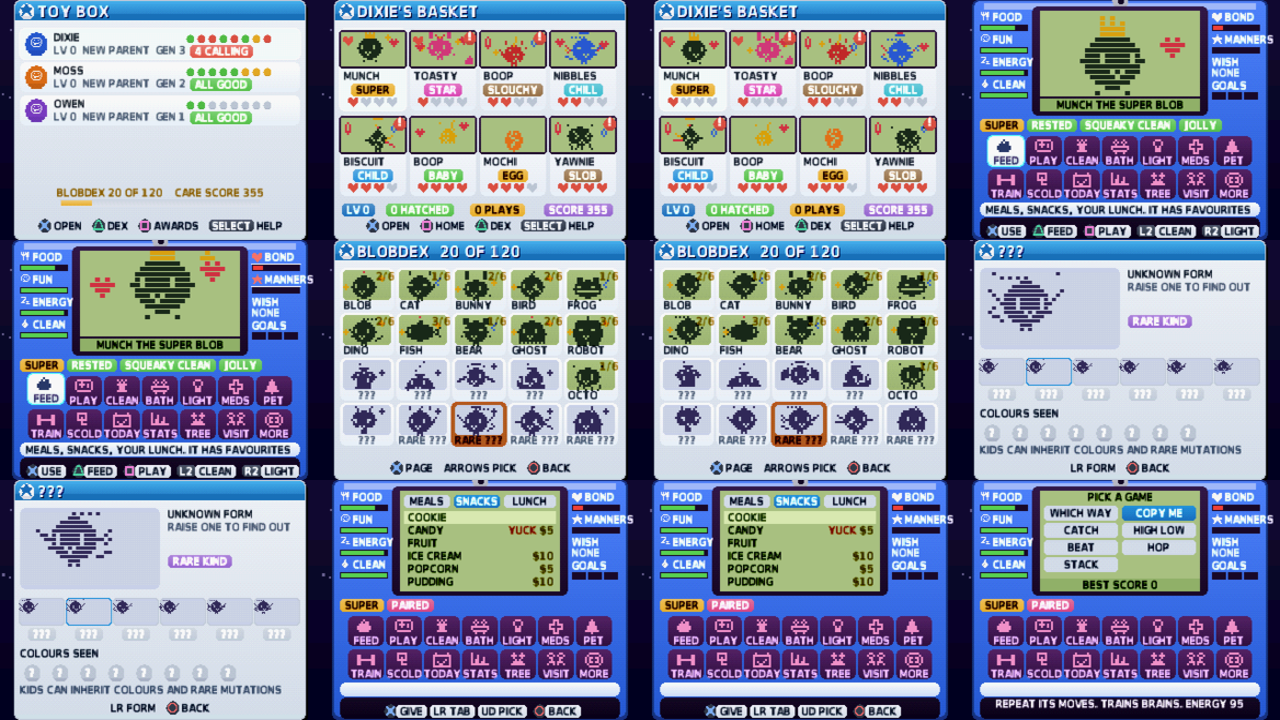
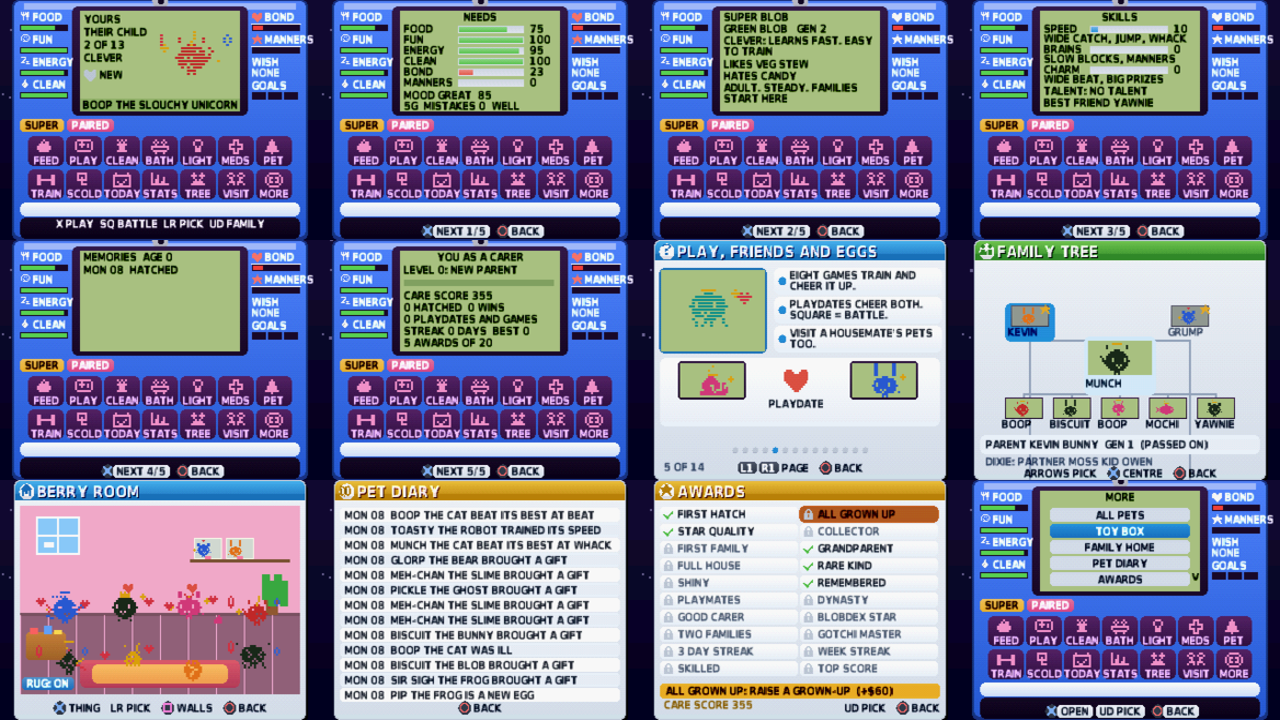
Boreagotchi: 8th mini-game WHACK (trains SPEED), games list now 8, diary names the game and skill, BRAINS manners bonus, test hooks AUTO_WHACK and shots
Claude-Session: https://claude.ai/code/session_01HmRg38Ho1eHKsYp7LCd8R6

diff --git a/src/gotchi_ui.c b/src/gotchi_ui.c
@@ -1,6 +1,6 @@
 #pragma GCC optimize("Os")
 // gotchi_ui.c - the BOREAGOTCHI! expansion pack's screens: the TOY BOX, the EGG BASKET (up to eight creatures), the HANDHELD (a colour LCD with
-// animated moods, a labelled icon menu with hints, stat bars), four little games, the BLOBDEX (a grid with silhouettes and a page for each kind),
+// animated moods, a labelled icon menu with hints, stat bars), eight little games, the BLOBDEX (a grid with silhouettes and a page for each kind),
 // the FAMILY TREE and FAMILY HOME, the DIARY, the AWARDS and the HELP pages. It is the overlay GOTCHI.OVL: a file on the disc of its own (ovl.h).
 // The creatures are not drawn from pictures: each of the 20 kinds is built from shapes on the 32 x 16 LCD, at five sizes, six grown-up forms, eight
 // colours, with rare mutations, accessories and moods, so there are very many different ones (and a BLOBDEX to fill).
@@ -14,7 +14,7 @@
 #include "ovl.h"
 #include <psxgpu.h>
 
-enum { V_BOX, V_BASKET, V_HAND, V_DEX, V_DEXD, V_FEED, V_PLAYPICK, V_LOOK, V_COPY, V_CATCH, V_HILO, V_FRIEND, V_STATS, V_GUIDE, V_TREE, V_HOME, V_DIARY, V_AWARD, V_MORE, V_DRESS, V_TITLE, V_INTRO, V_HATCH, V_DAY, V_GOALS, V_TRAIN, V_BEAT, V_HOP, V_STACK };
+enum { V_BOX, V_BASKET, V_HAND, V_DEX, V_DEXD, V_FEED, V_PLAYPICK, V_LOOK, V_COPY, V_CATCH, V_HILO, V_FRIEND, V_STATS, V_GUIDE, V_TREE, V_HOME, V_DIARY, V_AWARD, V_MORE, V_DRESS, V_TITLE, V_INTRO, V_HATCH, V_DAY, V_GOALS, V_TRAIN, V_BEAT, V_HOP, V_STACK, V_WHACK };
 enum { MD_NORM, MD_HAPPY, MD_DANCE, MD_SLEEP, MD_SICK, MD_HUNGRY, MD_BORED, MD_ANGRY, MD_TIRED, MD_DIRTY };
 static int view, from_box, ti, bi, isel, anim, msgT, dexsel, dexf, bxsel, sub, mgT, mgN, mgWon, mgRound, mgDir, danceT, treeSel, treeId, homeSel, listTop;
 static const char *msg; static int dexback, guidepage, guideback, backv;
@@ -213,7 +213,7 @@ static const u8 iconMap[NSLOT] = { 0, 1, 4, 12, 2, 3, 6, 13, 5, 14, 7, 8, 9, 11 
 static const u8 urgIcon[10] = { 99, 3, 4, 6, 5, 0, 2, 1, 12, 2 };   // the icon that lights up for what a pet needs most (gx_urgent2)
 static const char *const urgTxt[10] = { "", "SICK! SELECT GIVES MEDS", "A MESS! L2 CLEANS IT UP", "A TANTRUM. PET IT TO CALM IT", "IT IS FIBBING. SCOLD IT", "HUNGRY! TRI FEEDS IT", "SLEEPY. R2 SWITCHES THE LIGHT OFF", "BORED. SQ PLAYS A GAME", "SMELLY! GIVE IT A BATH", "TIRED. R2: LIGHTS OUT FOR A NAP" };
 static const char *const iconNm[NICON] = { "FEED", "PLAY", "LIGHT", "MEDS", "CLEAN", "SCOLD", "PET", "STATS", "TREE", "VISIT", "DRESS", "MORE", "BATH", "TRAIN", "TODAY" };
-static const char *const iconHint[NICON] = { "MEALS, SNACKS, YOUR LUNCH. IT HAS FAVOURITES", "SEVEN GAMES. GOOD SCORES BRING PRIZES", "LIGHTS OUT HELPS IT SLEEP. A TIRED PET NAPS",
+static const char *const iconHint[NICON] = { "MEALS, SNACKS, YOUR LUNCH. IT HAS FAVOURITES", "EIGHT GAMES. GOOD SCORES BRING PRIZES", "LIGHTS OUT HELPS IT SLEEP. A TIRED PET NAPS",
     "CURES THE SICK. NOT FOR A HEALTHY PET", "FLUSH THE MESS BEFORE IT MAKES THEM ILL", "ONLY FOR FIBS AND TANTRUMS", "CUDDLE IT. CALMS TANTRUMS. CHEERS YOU UP", "NEEDS, MOOD, SKILLS, MEMORIES",
     "THE FAMILY TREE: PARENTS, KIDS, GRANDPARENTS", "PLAYDATES AND BATTLES, EVEN WITH HOUSEMATES", "HATS AND BOWS FOR YOUR PET", "HOME, DIARY, AWARDS, BLOBDEX AND HELP", "A BATH KEEPS IT CLEAN AND WELL", "PRACTISE A SKILL. COSTS ENERGY", "THREE GOALS A DAY. KEEP A STREAK" };
 static const char *const icon[NICON][7] = {
@@ -322,6 +322,10 @@ static int hY, hVy, hOx[3], hOt[3], hSp, hNext, hSpawn, hClear, hHits, hDone, hH
 // STACK: drop sliding blocks into a tower
 #define SN 9
 static int sL[SN + 1], sW[SN + 1], sCx, sCw, sDir, sLv, sPerf, sOver;
+// WHACK: bugs pop out of four holes (up, down, left, right): press that way fast. A quick whack scores 2, a slow one 1; the mess is not to be touched
+#define WN 14
+static int wMax, wN, wSt, wT, wW, wHole, wMess, wLast, wPts, wHit, wMiss, wRes, wRT, wMood, wMT; static u8 wH[WN];
+static const u8 wcx[4] = { 192, 192, 160, 224 }, wcy[4] = { 38, 88, 63, 63 };
 static int skill(int i) { return tt()->x[bi].sk[i]; }
 static void start_look(void) { view = V_LOOK; mgRound = 0; mgWon = 0; mgT = 0; mgN = 0; mgDir = 0; }
 static void start_copy(void) { view = V_COPY; mgRound = 0; mgWon = 0; mgN = 2; for (int i = 0; i < 6; i++) seq[i] = (u8)(rr() & 3); sidx = 0; mgT = -60; }
@@ -330,6 +334,11 @@ static void start_hilo(void) { view = V_HILO; mgRound = 0; mgWon = 0; hiNum = 1 
 static void start_beat(void) { view = V_BEAT; bTm = 0; bPerf = bGood = bMiss = bCombo = bJT = 0; int a = 100; for (int i = 0; i < BN; i++) { bAt[i] = a; bRes[i] = 0; a += 34 + (rr() % 3) * 11; } mgT = -60; }
 static void start_hop(void) { view = V_HOP; hY = hVy = 0; hSp = 36; hSpawn = 70; hClear = hHits = hDone = hHurt = hNext = 0; for (int i = 0; i < 3; i++) hOx[i] = -99; mgT = -60; }
 static void start_stack(void) { view = V_STACK; sL[0] = 104; sW[0] = 52; sLv = 1; sCw = 52; sCx = 84 * 16; sDir = 1; sPerf = sOver = 0; mgT = -50; }
+static void start_whack(void) { view = V_WHACK; wMax = wN = wSt = wRes = wRT = wMT = wPts = wHit = wMiss = wMess = wHole = 0; wT = 40; wW = 60; wLast = -1; memset(wH, 0, sizeof wH); mgT = -50; }
+static void whack_end(int res, int pts) {   // a pop is over: 1 quick, 2 slow, 3 too late, 4 hit the mess, 5 left the mess alone, 6 wrong hole
+    wH[wN++] = (u8)res; wPts += pts; wRes = res; wRT = 40; wSt = 0; wT = wN >= WN ? 50 : 18 + rr() % 22; wMT = 26; wMood = (res == 1 || res == 2 || res == 5) ? MD_HAPPY : MD_BORED;
+    if (res <= 2) wHit++; else if (res != 5) wMiss++;
+}
 static void say2(const char *m) {   // the result, and a goal if it finished one
     static char c[72]; const char *g = gx_pending(); if (g) { snprintf(c, sizeof c, "%s  %s", m, g); say(c); } else say(m);
 }
@@ -358,11 +367,11 @@ static void a_bath(void) { Toy *t = tt(); int c0 = t->cared; if (blocked(cb(), 0
 static void a_light(void) { Blob *b = cb(); const char *m = gx_light(tt(), bi); say2(m); after_fx(); if (b->fl & GF_DARK) audio_voicep(VOICE_SNORE, 300); else pvoice(VOICE_AGREE, b); }
 static void start_game(int g) {
     const char *why = gx_play_check(tt(), bi, trainMode); if (why) { say(why); pvoice(VOICE_NAH, cb()); trainMode = 0; return; }
-    sub = g; lastGame = g; if (g == 0) start_look(); else if (g == 1) start_copy(); else if (g == 2) start_catch(); else if (g == 3) start_hilo(); else if (g == 4) start_beat(); else if (g == 5) start_hop(); else start_stack();
+    sub = g; lastGame = g; if (g == 0) start_look(); else if (g == 1) start_copy(); else if (g == 2) start_catch(); else if (g == 3) start_hilo(); else if (g == 4) start_beat(); else if (g == 5) start_hop(); else if (g == 6) start_stack(); else start_whack();
 }
 static void a_play(void) { if (blocked(cb(), 0)) return; trainMode = 0; start_game((lastGame + 1) % NGAME); }
 static void a_train(int sk) {   // a training round: the game that teaches that skill (they take turns)
-    static const u8 gm[3][2] = { { 5, 2 }, { 1, 6 }, { 4, 0 } }; if (blocked(cb(), 0)) return; trainMode = 1; start_game(gm[sk][trAlt++ & 1]);
+    static const u8 gm[3][3] = { { 5, 2, 7 }, { 1, 6, 1 }, { 4, 0, 4 } }; if (blocked(cb(), 0)) return; trainMode = 1; start_game(gm[sk][trAlt++ % 3]);
 }
 static void a_pet(void) { Toy *t = tt(); int c0 = t->cared; say2(gx_pet(t, bi)); if (t->cared != c0) fx(3, VOICE_YEHA); else pvoice(VOICE_AGREE, cb()); }
 static void a_smart(void) {   // SELECT: whatever it needs most
@@ -411,6 +420,9 @@ static void fr_build(void) {
 // ---- update ----
 int gotchi_update(int hd, int pr, int steps) {
     int v0 = view, pr0 = pr; gotchi_live(steps); par_step(steps); anim += steps; if (trn > 0) trn--; if (actT > 0) actT -= steps; if (danceT > 0) danceT -= steps; if (msgT > 0) { msgT -= steps; if (msgT <= 0) { msgT = 0; msg = 0; } }
+#ifdef AUTO_WHACK
+    { static int once; if (!once && view == V_HAND) { once = 1; trainMode = 1; start_game(7); } }
+#endif
     switch (view) {
     case V_BOX: {
         int idx[GT_MAX], n = box_list(idx); if (!n) return 0;
@@ -523,6 +535,25 @@ int gotchi_update(int hd, int pr, int steps) {
             if (ov <= 0) { sOver = 1; sW[sLv] = 0; audio_voicep(VOICE_NAH, 300); bT = 40; }
             else { sL[sLv] = lo; sW[sLv] = ov; sLv++; sCw = ov; sCx = (sDir > 0 ? 84 : 168 - ov) * 16; if (sLv > SN) { sOver = 1; sLv = SN + 1; emit(4, 130, 60, 14); } }
         }
+        break; }
+    case V_WHACK: {   // WHACK: D-pad toward the bug. fourteen pops; the window shrinks; from the fourth pop some are mess, which must be left alone
+        if (pr & PAD_CIRCLE) { view = V_HAND; trainMode = 0; break; }
+        mgT += steps; if (mgT < 0) break;
+        int key = (pr & PAD_UP) ? 0 : (pr & PAD_DOWN) ? 1 : (pr & PAD_LEFT) ? 2 : (pr & PAD_RIGHT) ? 3 : -1;
+#ifdef AUTO_WHACK   /* test hook: a player who reacts after AUTO_WHACK frames, now and then picks the wrong hole or whacks the mess */
+        if (wSt == 1 && wW - wT >= AUTO_WHACK) key = (wMess && !(wN & 1)) ? -1 : (wN == 5 ? (wHole + 1) & 3 : wHole);
+#endif
+        if (wRT > 0) wRT -= steps; if (wMT > 0) wMT -= steps;
+        if (wSt == 1) {
+            if (key >= 0) {
+                if (!wMess && key == wHole) { int q = wT * 5 > wW * 2; whack_end(q ? 1 : 2, q ? 2 : 1); emit(q ? 1 : 0, wcx[key], wcy[key] - 14, 3); audio_voicep(q ? VOICE_YEHA : VOICE_AGREE, 330 + wN * 14); }
+                else { whack_end(wMess ? 4 : 6, 0); emit(2, wcx[key], wcy[key] - 10, 2); audio_voicep(wMess ? VOICE_GROAN : VOICE_NAH, 300); } }
+            else { wT -= steps; if (wT <= 0) { if (wMess) { whack_end(5, 1); audio_voicep(VOICE_AGREE, 420); } else { whack_end(3, 0); audio_voicep(VOICE_NAH, 260); } } } }
+        else {
+            if (key >= 0 && wN < WN && wRT < 34) { wRes = 7; wRT = 30; wPts = MAX(0, wPts - 1); wMood = MD_BORED; wMT = 20; audio_voicep(VOICE_NAH, 360); }
+            wT -= steps;
+            if (wT <= 0) { if (wN >= WN) finish_game(wMax ? wPts * 100 / wMax : 0, 7);
+                else { wHole = (wLast + 1 + rr() % 3) & 3; wLast = wHole; wMess = wN >= 3 && rr() % 4 == 0; wMax += wMess ? 1 : 2; wW = MAX(36, 64 - wN * 2) + skill(0) / 8; wT = wW; wSt = 1; audio_voicep(wMess ? VOICE_GROAN : VOICE_AGREE, wMess ? 200 : 480 + wHole * 40); } } }
         break; }
     case V_LOOK:   // WHICH WAY? it looks left or right: guess first. 5 rounds, 3 to win
         if (mgN == 0) { if (pr & PAD_LEFT) { mgDir = -1; mgN = 1; mgT = 0; } if (pr & PAD_RIGHT) { mgDir = 1; mgN = 1; mgT = 0; } if (pr & PAD_CIRCLE) view = V_HAND;
@@ -780,7 +811,7 @@ static void draw_stats(void) {
         sprintf(s, "LIKES %s", gx_food(k->taste >> 4)); lt(84, 64, s); sprintf(s, "HATES %s", gx_food(k->taste & 15)); lt(84, 75, s);
         sprintf(s, "%s. %s", gx_stage(b->stage), gx_stage_note(b->stage)); lwrap(84, 86, 152, 2, s);
     } else if (sub == 2) {
-        ltc(160, 20, "SKILLS"); static const char *const eff[3] = { "WIDE CATCH, LONG JUMP", "SLOW BLOCKS, MANNERS", "WIDE BEAT, BIG PRIZES" };
+        ltc(160, 20, "SKILLS"); static const char *const eff[3] = { "WIDE CATCH, JUMP, WHACK", "SLOW BLOCKS, MANNERS", "WIDE BEAT, BIG PRIZES" };
         for (int i = 0; i < 3; i++) { int y = 31 + i * 19; lt(84, y, gx_skill(i)); ui_bar(130, y + 1, 78, 7, x->sk[i], UI_BLUE); sprintf(s, "%d", x->sk[i]); lt(214, y, s); lt(84, y + 9, eff[i]); }
         const Line *l = gotchi_line(k->id); int tl = l ? gtal[l - gline] : 0; sprintf(s, "TALENT: %s", gx_talent(tl)); lt(84, 89, s);
         if (x->bff && t->b[x->bff - 1].on) { sprintf(s, "BEST FRIEND %s", gx_given(t->b[x->bff - 1].nm)); lt(84, 100, s); }
@@ -811,7 +842,7 @@ static void draw_feed(void) {
 }
 static void draw_playpick(void) {
     draw_hand(1); lcd_panel(); ltc(160, 20, "PICK A GAME");
-    static const char *const how[NGAME] = { "GUESS WHERE IT LOOKS. MOSTLY LUCK", "REPEAT ITS MOVES. TRAINS BRAINS", "CATCH TREATS, DODGE MESS. TRAINS SPEED", "HIGHER OR LOWER? MOSTLY LUCK", "PRESS ON THE BEAT. TRAINS CHARM", "JUMP THE ROCKS. TRAINS SPEED", "DROP BLOCKS INTO A TOWER. TRAINS BRAINS" };
+    static const char *const how[NGAME] = { "GUESS WHERE IT LOOKS. MOSTLY LUCK", "REPEAT ITS MOVES. TRAINS BRAINS", "CATCH TREATS, DODGE MESS. TRAINS SPEED", "HIGHER OR LOWER? MOSTLY LUCK", "PRESS ON THE BEAT. TRAINS CHARM", "JUMP THE ROCKS. TRAINS SPEED", "DROP BLOCKS INTO A TOWER. TRAINS BRAINS", "WHACK THE BUGS FAST. TRAINS SPEED" };
     for (int i = 0; i < NGAME; i++) { int x = 84 + (i & 1) * 78, y = 32 + (i >> 1) * 16; ui_round(x, y, 74, 14, 5, i == sub ? UI_BLUE : UI_CARD2, i == sub ? UI_BLUE2 : UI_CARD2, 0); ui_textc(x + 37, y + 3, 1, gx_game(i), i == sub ? UI_WHITE : UI_INK); }
     { char s[40]; sprintf(s, "BEST SCORE %d", gbest[sub]); strip(s); }
     { char m[80]; Blob *b = cb(); const Xt *x = &tt()->x[bi]; sprintf(m, "%s. ENERGY %d", how[sub], x->nrg); (void)b; bar_msg(m); }
@@ -848,7 +879,7 @@ static void draw_hilo(void) {
 }
 static void draw_train(void) {
     draw_hand(1); lcd_panel(); ltc(160, 20, "TRAIN A SKILL"); const Xt *x = &tt()->x[bi];
-    static const char *const eff[3] = { "WIDE CATCH, LONG JUMP", "SLOW BLOCKS, MANNERS", "WIDE BEAT, BIG PRIZES" }, *const gm[3] = { "HOP, CATCH", "COPY, STACK", "BEAT, WHICH WAY" };
+    static const char *const eff[3] = { "WIDE CATCH, JUMP, WHACK", "SLOW BLOCKS, MANNERS", "WIDE BEAT, BIG PRIZES" }, *const gm[3] = { "HOP, CATCH, WHACK", "COPY, STACK", "BEAT, WHICH WAY" };
     for (int i = 0; i < 3; i++) { int y = 30 + i * 22; ui_round(84, y, 152, 20, 5, i == sub ? UI_BLUE : UI_CARD2, i == sub ? UI_BLUE2 : UI_CARD2, 0);
         u32 ink = i == sub ? UI_WHITE : UI_INK; ui_text(90, y + 2, 1, gx_skill(i), ink); ui_text(90, y + 11, 1, gm[i], i == sub ? UI_HILITE : UI_SOFT); ui_bar(150, y + 3, 60, 6, x->sk[i], UI_AMBER); char s[8]; sprintf(s, "%d", x->sk[i]); ui_text(216, y + 2, 1, s, ink); }
     strip(eff[sub]); bar_msg("X TRAIN. UD PICK. O BACK");
@@ -888,6 +919,22 @@ static void draw_hop(void) {
     for (int i = 0; i < 3; i++) if (hOx[i] > -90 * 16) { int x = hOx[i] / 16, w = hOt[i] == 2 ? 22 : hOt[i] == 1 ? 10 : 12, h = hOt[i] == 1 ? 24 : 10, x0 = MAX(80, x), x1 = MIN(240, x + w); if (x1 <= x0) continue;
         gfx_rect(x0, 96 - h, x1 - x0, h, 96, 70, 44, 0); gfx_rect(x0, 96 - h, x1 - x0, 3, 70, 150, 70, 0); }
     sprintf(s, "ROCKS %d OF %d  LIVES %d", hDone, HN, 3 - hHits); strip(s); bar_msg(mgT < 0 ? "GET READY..." : "PRESS X TO JUMP THE ROCKS");
+}
+static void draw_whack(void) {
+    draw_hand(1); lcd_panel(); char s[48]; int el = wW - wT;
+    static const u8 hc[7][3] = { { 60, 76, 50 }, { 240, 180, 20 }, { 90, 190, 80 }, { 220, 60, 60 }, { 220, 60, 60 }, { 70, 130, 240 }, { 220, 60, 60 } };
+    for (int i = 0; i < WN; i++) { const u8 *c = hc[i < wN ? wH[i] % 7 : 0]; gfx_rect(84 + i * 6, 21, 5, 5, c[0], c[1], c[2], 0); }
+    for (int h = 0; h < 4; h++) { int cx = wcx[h], cy = wcy[h];
+        ui_round(cx - 14, cy - 5, 28, 12, 5, UI_RGB(70, 46, 30), UI_RGB(40, 26, 18), 0);
+        if (wSt == 1 && h == wHole && mgT >= 0) { int rise = MIN(14, el / 2 + 3), top = cy + 2 - rise;
+            if (wMess) { ui_round(cx - 9, top, 18, rise, 6, UI_RGB(150, 100, 50), UI_RGB(100, 64, 30), 0); if (rise > 8) { ui_disc(cx, top + 7, 9, UI_RGB(220, 50, 50)); gfx_text_raw(cx - 2, top + 3, 1, "!", 255, 255, 255); } }
+            else { ui_round(cx - 9, top, 18, rise, 6, UI_RGB(120, 220, 70), UI_RGB(60, 170, 60), 0); gfx_rect(cx - 6, top - 3, 1, 3, 40, 70, 30, 0); gfx_rect(cx + 5, top - 3, 1, 3, 40, 70, 30, 0);
+                if (rise > 8) { gfx_rect(cx - 6, top + 3, 4, 4, 255, 255, 255, 0); gfx_rect(cx + 2, top + 3, 4, 4, 255, 255, 255, 0); gfx_rect(cx - 4, top + 4, 2, 2, 20, 30, 20, 0); gfx_rect(cx + 2, top + 4, 2, 2, 20, 30, 20, 0); } } }
+        ui_round(cx - 15, cy + 1, 30, 6, 3, UI_RGB(170, 120, 66), UI_RGB(120, 80, 44), 0); }
+    { int by = wMT > 0 && wMood == MD_HAPPY ? MIN(wMT, 8) : 0; Blob *b = cb(); memset(dot, 0, sizeof dot); scene(b, ck(), anim / 20, wSt == 1 ? (wHole == 2 ? -1 : wHole == 3 ? 1 : 0) : 0, wMT > 0 ? wMood : MD_NORM); dots_draw(84, 64 - by, 2, 0, 16, 0, 32); }
+    if (wRT > 0) { static const char *const rn[8] = { "", "QUICK!", "OK", "TOO SLOW", "YUCK!", "DODGED!", "WRONG ONE", "TOO SOON" }; static const u8 rc[8][3] = { { 0, 0, 0 }, { 190, 110, 0 }, { 30, 130, 40 }, { 200, 40, 40 }, { 200, 40, 40 }, { 40, 80, 200 }, { 200, 40, 40 }, { 200, 40, 40 } };
+        gfx_text_raw(84, 34, 1, rn[wRes & 7], rc[wRes & 7][0], rc[wRes & 7][1], rc[wRes & 7][2]); }
+    sprintf(s, "HIT %d  MISS %d  LEFT %d", wHit, wMiss, WN - wN); strip(s); bar_msg(mgT < 0 ? "GET READY..." : "D-PAD AT THE BUG. NOT THE MESS");
 }
 static void draw_stack(void) {
     draw_hand(1); lcd_panel(); char s[48];
@@ -1061,11 +1108,11 @@ static const GPage gp[NGP] = {
     { "THE HANDHELD", 1, 1, { "D-PAD PICKS AN ICON, X USES IT. L1 R1 SWAP PETS.", "ONE PRESS: TRI FEEDS, SQ PLAYS, L2 CLEANS, R2 LIGHTS. SELECT DOES WHAT IS URGENT.", "AN ICON LIT UP? THE BAR SAYS WHAT IT NEEDS." } },
     { "EIGHT PETS PER TOY", 2, 2, { "THE BASKET HOLDS EIGHT. A NEW EGG IS $150.", "20 KINDS: CATS, ROBOTS, GHOSTS, DRAGONS...", "HEARTS SHOW HOW CLOSE YOU TWO ARE." } },
     { "GROWING UP", 3, 3, { "EGG, BABY, CHILD, TEEN, ADULT, THEN ELDER.", "YOUR CARE DECIDES WHICH OF SIX FORMS IT BECOMES.", "GROWN-UPS FILL THE BLOBDEX. GET THEM ALL!" } },
-    { "PLAY, FRIENDS AND EGGS", 4, 4, { "FOUR GAMES CHEER IT UP AND TRAIN IT.", "PLAYDATES CHEER BOTH. SQUARE = BATTLE.", "VISIT A HOUSEMATE'S PETS TOO." } },
+    { "PLAY, FRIENDS AND EGGS", 4, 4, { "EIGHT GAMES TRAIN AND CHEER IT UP.", "PLAYDATES CHEER BOTH. SQUARE = BATTLE.", "VISIT A HOUSEMATE'S PETS TOO." } },
     { "HIJINKS: YOU AND THE PET", 5, 5, { "LIVE MODE: REAL TIME. YOU MAY FORGET TO EAT!", "SAD OR STARVING? YOUR PETS FEEL IT TOO.", "SHARE YOUR LUNCH, OR GET A NUZZLE FOR FUN." } },
     { "MOODS AND CARE SKILL", 6, 6, { "PETS CHANGE YOUR MOOD: PROUD PARENT, BUDDY...", "NEGLECT THEM AND YOU WORRY. LOSE ONE: OUCH.", "CARE SKILL GROWS: LESS HUNGER, LESS SICK." } },
     { "BUILD AND BUY THINGS", 7, 7, { "NEW BUILD TAB: NINE THINGS FOR HOME.", "DOCK OPENS THE BASKET. CABINET: BLOBDEX.", "BOWL, LAMP, BED CARE FOR ALL PETS AT ONCE." } },
-    { "WHAT'S NEW", 6, 8, { "NEW: FAMILIES, EGGS BY LOVE, A FAMILY TREE.", "NEW: HOMES, DIARY, AWARDS, HATS, FOODS, GAMES.", "NEW: RARE KINDS, COLOURS, ELDERS AND MEMORIALS." } },
+    { "WHAT'S NEW", 6, 8, { "NEW: FAMILIES, EGGS BY LOVE, A FAMILY TREE.", "NEW: DIARY, AWARDS, HATS, FOODS, WHACK GAME.", "NEW: RARE KINDS, COLOURS, ELDERS AND MEMORIALS." } },
     { "FAMILIES", -1, 9, { "TWO GROWN-UPS WHO LOVE EACH OTHER BECOME A PAIR.", "A PAIR LAYS EGGS. KIDS INHERIT KIND, COLOUR, TEMPER.", "PARENTS FEED THE YOUNG. BROTHERS AND SISTERS PLAY." } },
     { "THE FAMILY TREE", -1, 10, { "FAMILY ICON: PARENTS, GRANDPARENTS, KIDS, SIBLINGS.", "PRESS X ON A RELATIVE TO MAKE THEM THE CENTRE.", "RELATIVES NEVER PAIR UP. HOUSEMATES' PETS CAN." } },
     { "MOODS ON THE SCREEN", -1, 11, { "SLEEPY, HUNGRY, HAPPY, SICK, BORED, DANCING.", "ANGRY MEANS A TANTRUM: CUDDLE IT OR SCOLD IT.", "PERSONALITIES CHANGE HOW EACH ONE GROWS." } },
@@ -1225,15 +1272,16 @@ void gotchi_draw(void) {
         static int n; static const u8 vl[] = { V_BOX, V_BASKET, V_HAND, V_DEX, V_DEXD, V_FEED, V_PLAYPICK, V_FRIEND, V_STATS, V_STATS, V_STATS, V_STATS, V_STATS, V_GUIDE, V_TREE, V_HOME, V_DIARY, V_AWARD, V_MORE, V_DRESS,
             V_GOALS, V_TRAIN, V_LOOK, V_COPY, V_CATCH, V_HILO, V_BEAT, V_HOP, V_STACK, V_TITLE, V_INTRO, V_INTRO, V_INTRO, V_HATCH, V_HATCH, V_HATCH, V_HATCH, V_DAY,
             V_HAND, V_HAND, V_HAND, V_HAND, V_HAND, V_HAND, V_HAND,   /* the first day: pages 0..6 */
-            V_HAND, V_HAND, V_HAND, V_HAND, V_HAND, V_HAND, V_HAND, V_HAND, V_HAND, V_BASKET, V_MORE, V_TREE };   /* surprises, moods, particles */
+            V_HAND, V_HAND, V_HAND, V_HAND, V_HAND, V_HAND, V_HAND, V_HAND, V_HAND, V_BASKET, V_MORE, V_TREE, V_WHACK, V_WHACK };   /* surprises, moods, particles, the new game */
         int k = n++ / 60;
         if (k < (int)sizeof vl && n % 60 == 1) {
             view = vl[k]; sub = 1; bi = 0; isel = 0; treeId = 0; treeSel = 0; dexsel = 17; dexf = 1; gach = 0x2A5 | GACH_TUTOFF | GACH_INTRO; trn = 0; actT = 0; homeSel = 3; evK = 0; trainMode = 0; titleT = 0; moreTop = 0;
             memset(par, 0, sizeof par); msgT = 0; msg = 0; danceT = 0; tutN = -1; evCool = 99999; Toy *tx = tt(); (void)tx;
             if (k >= 8 && k <= 12) sub = k - 8;
-            if (k == 13) sub = 0; if (k == 14) treeSel = 0;
+            if (k == 13) { sub = 0; guidepage = 4; } if (k == 14) treeSel = 0;
             if (k == 20) { Toy *m = my_toy(); if (m) { m->gday = (u16)day_count; m->gflag = 128; memset(m->gp, 0, 6); m->gp[gx_goal_type(m, 0)] = 99; m->gp[gx_goal_type(m, 1)] = 1; m->streak = 3; m->best = 5; m->ghist = 0x6B; } }
             if (k == 21) sub = 1;
+            if (k == 16) { Toy *m = my_toy(); if (m) { gotchi_diary(GD_BEST | 7 << 5, m->k[0].id); gotchi_diary(GD_TRAIN | 1 << 5, m->k[1].id); gotchi_diary(GD_BEST | 4 << 5, m->k[2].id); } }
             if (k == 22) start_look(); if (k == 23) start_copy(); if (k == 24) start_catch(); if (k == 25) start_hilo();
             if (k == 26) { start_beat(); mgT = 0; bTm = 70; bPerf = 3; bGood = 2; bCombo = 4; bRes[0] = 1; bRes[1] = 2; bRes[2] = 1; bJudge = 1; bJT = 99; bT = 18; }
             if (k == 27) { start_hop(); mgT = 0; hOx[0] = 190 * 16; hOt[0] = 1; hOx[1] = 246 * 16; hOt[1] = 0; hNext = 2; hClear = 4; hDone = 4; hHits = 1; hSpawn = 999; hY = 20 * 16; hVy = 10; }
@@ -1251,6 +1299,7 @@ void gotchi_draw(void) {
                 if (k == 53) bi = 3;
                 if (k == 54) { bi = 0; }             /* basket */
                 if (k == 55) { sub = 7; moreTop = 3; }
+                if (k == 57 || k == 58) { start_whack(); mgT = 0; wN = k == 57 ? 6 : 9; wSt = 1; wW = 500; wT = 470; wHole = k == 57 ? 2 : 1; wMess = k == 58; wPts = 7; wHit = 5; wMiss = 1; wRes = k == 57 ? 1 : 5; wRT = 9999; wMood = MD_HAPPY; wMT = 9999; for (int i = 0; i < wN; i++) wH[i] = (u8)(i % 5 == 3 ? 3 : i % 3 == 0 ? 2 : 1); }
                 if (k == 56) { Toy *m2 = my_toy(); if (m2) { treeId = m2->k[0].id; } treeSel = 0; } }
         }
     }
@@ -1261,7 +1310,7 @@ void gotchi_draw(void) {
     case V_FRIEND: draw_friend(); break; case V_STATS: draw_stats(); break; case V_GUIDE: draw_guide(); break; case V_DEX: draw_dex(); break; case V_DEXD: draw_dexd(); break;
     case V_TREE: draw_tree(); break; case V_HOME: draw_home(); break; case V_DIARY: draw_diary(); break; case V_AWARD: draw_award(); break; case V_MORE: draw_more(); break;
     case V_TITLE: draw_title(); break; case V_INTRO: draw_intro(); break; case V_HATCH: draw_hatch(); break; case V_DAY: draw_day(); break;
-    case V_GOALS: draw_goals(); break; case V_TRAIN: draw_train(); break; case V_BEAT: draw_beat(); par_draw(80, 18, 240, 98); break; case V_HOP: draw_hop(); break; case V_STACK: draw_stack(); par_draw(80, 18, 240, 98); break;
+    case V_GOALS: draw_goals(); break; case V_TRAIN: draw_train(); break; case V_BEAT: draw_beat(); par_draw(80, 18, 240, 98); break; case V_HOP: draw_hop(); break; case V_STACK: draw_stack(); par_draw(80, 18, 240, 98); break; case V_WHACK: draw_whack(); par_draw(80, 18, 240, 98); break;
     default: draw_dress(); break;
     }
     curtain();

diff --git a/src/gotchi_act.c b/src/gotchi_act.c
@@ -23,8 +23,8 @@ static const char *const achNm[NACH] = { "FIRST HATCH", "ALL GROWN UP", "STAR QU
     "SHINY", "REMEMBERED", "PLAYMATES", "DYNASTY", "GOOD CARER", "BLOBDEX STAR", "TWO FAMILIES", "GOTCHI MASTER", "3 DAY STREAK", "WEEK STREAK", "SKILLED", "TOP SCORE" };
 static const char *const achHow[NACH] = { "HATCH AN EGG", "RAISE A GROWN-UP", "RAISE A STAR FORM", "24 FORMS IN THE BLOBDEX", "A PAIR LAYS AN EGG", "A GRANDCHILD IS BORN", "FIVE PETS IN ONE TOY", "HATCH A RARE KIND",
     "A GOLD OR MUTANT PET", "A PET PASSES ON", "10 PLAYDATES", "FIVE GENERATIONS", "CARE SCORE OF 500", "60 FORMS IN THE BLOBDEX", "AN EGG FROM TWO FAMILIES", "REACH CARE LEVEL 5", "ALL GOALS 3 DAYS RUNNING", "ALL GOALS 7 DAYS RUNNING", "A SKILL OF 60", "GRADE S IN A GAME" };
-static const char *const gameNm[NGAME] = { "WHICH WAY", "COPY ME", "CATCH", "HIGH LOW", "BEAT", "HOP", "STACK" };
-static const u8 gameSk[NGAME] = { 2, 1, 0, 1, 2, 0, 1 };   // the skill each game trains: 0 speed 1 brains 2 charm
+static const char *const gameNm[NGAME] = { "WHICH WAY", "COPY ME", "CATCH", "HIGH LOW", "BEAT", "HOP", "STACK", "WHACK" };
+static const u8 gameSk[NGAME] = { 2, 1, 0, 1, 2, 0, 1, 0 };   // the skill each game trains: 0 speed 1 brains 2 charm
 static const char *const roomNm[6] = { "SUNNY ROOM", "SEA ROOM", "BERRY ROOM", "MINT ROOM", "NIGHT ROOM", "GOLD ROOM" };
 static const char *const dayNm[7] = { "MON", "TUE", "WED", "THU", "FRI", "SAT", "SUN" };
 
@@ -60,6 +60,8 @@ void gx_diary(const Diary *d, char *out) {   // the diary tells it as a story: w
     if (kd == GD_AWARD) { sprintf(out, "%sAWARD: %s", t, achNm[d->id % NACH]); return; }
     if (kd == GD_DAY) { sprintf(out, "%sGOODNIGHT. %d CARES TODAY", t, d->id); return; }
     if (l) sprintf(w, "%s THE %s", giv[l->nm & 31], spNm[l->sp % GSP_N]); else strcpy(w, "A PET");
+    if (kd == GD_BEST) { sprintf(out, "%s%s BEAT ITS BEST AT %s", t, w, gameNm[sg]); return; }
+    if (kd == GD_TRAIN && sg) { sprintf(out, "%s%s TRAINED ITS %s", t, w, gx_skill(sg - 1)); return; }
     if (kd == GD_GROW) { sprintf(out, "%s%s %s", t, w, sg == GS_CHILD ? "IS A CHILD NOW" : sg == GS_TEEN ? "IS A TEEN NOW" : sg == GS_ELDER ? "IS GETTING OLD" : "GREW UP A BIT"); return; }
     if (kd == GD_ADULT) { sprintf(out, "%s%s GREW UP: A %s ADULT", t, w, formNm[sg % GFORMS]); return; }
     sprintf(out, "%s%s %s", t, w, vb[kd & 31]);
@@ -68,7 +70,8 @@ void gx_diary(const Diary *d, char *out) {   // the diary tells it as a story: w
 void gx_diary_mem(const Diary *d, char *out) {   // one line of a pet's own memories (no name: the page is about it)
     static const char *const vb[32] = { "", "HATCHED", "GREW UP A BIT", "GREW UP", "PASSED ON", "BROUGHT A GIFT", "BIRTHDAY", "HAD A TANTRUM", "WAS ILL", "LAID AN EGG", "HAD A PLAYDATE", "RARE MUTANT", "WAS LOOKED AFTER", "FELL IN LOVE", "VISITED A FRIEND", "",
         "WISH GRANTED", "TRAINED HARD", "NEW BEST SCORE", "BEST FRIEND", "MISSED A FRIEND", "A SURPRISE", "GOALS KEPT", "", "", "", "", "", "", "", "", "" };
-    int kd = d->kind & 31; sprintf(out, "%s %02d  %s", dayNm[(d->day / 24) % 7], d->day % 24, vb[kd]);
+    int kd = d->kind & 31, sg = d->kind >> 5; sprintf(out, "%s %02d  ", dayNm[(d->day / 24) % 7], d->day % 24); char *e = out + strlen(out);
+    if (kd == GD_BEST) sprintf(e, "NEW BEST AT %s", gameNm[sg]); else if (kd == GD_TRAIN && sg) sprintf(e, "TRAINED %s", gx_skill(sg - 1)); else strcpy(e, vb[kd]);
 }
 // ---- actions ----
 static void up(u8 *v, int max, int n) { int x = *v + n; *v = (u8)(x > max ? max : x < 0 ? 0 : x); }
@@ -193,7 +196,7 @@ const char *gx_game_result(Toy *t, int slot, int game, int pct, int train) {
     t->plays++; gx_grade = g; tch(t, slot);
     int cost = train ? 12 : 6; if (b->wt >= 20) cost += 3; if (pr == GP_LAZY) cost += 2; x->nrg = (u8)(x->nrg > cost ? x->nrg - cost : 0); up(&x->hyg, 100, train ? -8 : -4);
     if (train) { if (b->hun > 1) b->hun--; int gain = 1 + g * 2; if (pr == GP_CLEVER) gain++; if (pr == GP_LAZY && gain > 1) gain--; gain = gain * (50 + m) / 100 + (g > 0); if (gain < 1) gain = 1; up(&x->sk[sk], 100, gain);
-        up(&b->disc, 100, 2 + g * 3 + (pr == GP_CLEVER ? 3 : 0)); if (g < 2) up(&b->hap, 4, -1); if (g >= 2) up(&b->bond, 100, 1); gotchi_xp(t, 2 + g); gpadd(t, 3); wish_hit(t, slot, 4); gotchi_diary(GD_TRAIN, k->id); }
+        up(&b->disc, 100, 2 + g * 3 + (pr == GP_CLEVER ? 3 : 0) + x->sk[1] / 20); if (g < 2) up(&b->hap, 4, -1); if (g >= 2) up(&b->bond, 100, 1); gotchi_xp(t, 2 + g); gpadd(t, 3); wish_hit(t, slot, 4); gotchi_diary(GD_TRAIN | (sk + 1) << 5, k->id); }
     else {
         up(&b->hap, 4, (g >= 2) + (g >= 4) + (pr == GP_PLAYFUL && g >= 1)); if (g >= 2 && b->wt > 1) b->wt--; up(&b->bond, 100, (g >= 1) + (g >= 3) * 2 + (pr == GP_PLAYFUL ? 1 : 0) + (m >= 80));
         up(&x->sk[sk], 100, g >= 2 ? 1 : 0); gotchi_xp(t, 1 + g); if (g >= 2) t->wins++; if (g >= 1) { gpadd(t, 1); wish_hit(t, slot, 2); }
@@ -204,7 +207,7 @@ const char *gx_game_result(Toy *t, int slot, int game, int pct, int train) {
     if (g >= 3 && !train) { int c = (g == 4 ? 10 : 5) + x->sk[2] / 20; sprintf(rmsg, "GRADE %s +$%d", gn[g], c); }
     if (g == 4) gx_award(19);
     if (x->sk[0] >= 60 || x->sk[1] >= 60 || x->sk[2] >= 60) gx_award(18);
-    if (game >= 0 && game < 8 && pct > gbest[game]) { if (gbest[game]) { strcat(rmsg, ". NEW BEST!"); gotchi_diary(GD_BEST, k->id); gx_fx = 4; } gbest[game] = (u8)pct; }
+    if (game >= 0 && game < 8 && pct > gbest[game]) { if (gbest[game]) { strcat(rmsg, ". NEW BEST!"); gx_fx = 4; } if (gbest[game] || pct >= 50) gotchi_diary(GD_BEST | game << 5, k->id); gbest[game] = (u8)pct; }
     return rmsg;
 }
 static void friend2(Toy *t, int i, int j, int n) {   // two pets of one toy grow closer: each keeps one best friend

diff --git a/src/gotchi_act.h b/src/gotchi_act.h
@@ -4,7 +4,7 @@
 
 #define NFOOD 12
 #define NACC 8
-#define NGAME 7
+#define NGAME 8
 #define NACH 20
 const char *gx_species(int sp);
 const char *gx_given(int nm);

diff --git a/docs/GOTCHI_V48.md b/docs/GOTCHI_V48.md
@@ -1,14 +1,17 @@
 # Boreagotchi v48 (save version 48)
 
-Shots: docs/gotchi_v48_1.png to docs/gotchi_v48_8.png (12 screens a sheet, from test/gviews.sh).
+Shots: docs/gotchi_v48_1.png to docs/gotchi_v48_5.png (12 screens a sheet, from test/gviews.sh; the last sheet is the new game WHACK, with the game list: 8 games, no half-empty last row).
 
 - Needs: food, fun, energy, clean, bond, manners. Energy and clean drain by life stage. Tired or dirty pets get sad, sick or lonely.
 - Moodlets: up to three short chips under the LCD. Wishes last 10 hours; granting one gives bond.
 - Goals: three a day (icon TODAY), streaks, 7-day history, awards.
-- Games (7): WHICH WAY, COPY ME, CATCH, HIGH LOW, BEAT, HOP, STACK. They train SPEED, BRAINS and CHARM; grade S to C, best scores.
+- Games (8): WHICH WAY, COPY ME, CATCH, HIGH LOW, BEAT, HOP, STACK, WHACK. They train SPEED, BRAINS and CHARM; grade S to D, best scores. The game list is 2 columns by 4 rows.
+- WHACK (trains SPEED): 14 pops. A bug pops out of one of four holes; press that way on the D-pad. Quick whack 2 points, slow 1, wrong hole or too late 0, too soon -1. From pop 4 some pops are MESS (red "!"): leave it alone for 1 point, whack it and you lose the pop. The window shrinks every pop; SPEED adds time. Grade = points out of what was on offer. The pet's eyes follow the hole, it hops on a hit and sulks on a miss; pitched voices rise with each pop, groan on the mess. Best score is gbest[7] (the v48 save already holds 8 bytes, so no new version). TRAIN SPEED now takes turns between HOP, CATCH and WHACK.
+- Diary: a new best now says the game ("BOOP BEAT ITS BEST AT WHACK") and a training round says the skill ("TRAINED ITS SPEED"), in the diary and the memories page. The game number rides in bits 5-7 of the diary kind (old v48 entries read as WHICH WAY / plain TRAINED HARD).
+- Training: BRAINS now adds MANNERS (skill / 20) to every training round (the SKILLS page already promised it).
 - First day: scripted steps with a gold frame on the icon to use.
 - Surprises: fly, coin, shooting star, thunder, visitor. Particles and blinking. Pitched pet voices (audio_voicep).
 - Family: talents inherited, best friends, birthdays, memories page.
 - Save: VERSION 48. Per pet adds Xt; per toy adds goals; diary is 32 lines. Older saves get default values.
 - Disc: the GOTCHI.OVL slot grew from 48 to 72 sectors (tools/packs.py), so the disc layout changed; old PPF packs do not fit.
-- RAM (2 MB): 11,864 bytes free past _end (was 15,036). 8 MB boots. GOTCHI.OVL 127,944 bytes of 156,096.
+- RAM (2 MB): 11,720 bytes free past _end (nothing resident changed for WHACK; the 11,864 above was another count). 8 MB boots. GOTCHI.OVL 132,028 bytes of 156,096 (was 127,944). Test hooks: -DAUTO_WHACK=n plays WHACK by itself (n frames of reaction), AUTO_GVIEWS shoots it twice (a bug, then a mess).

diff --git a/docs/ROADMAP.md b/docs/ROADMAP.md
@@ -12,7 +12,7 @@ Detail for each port: DSI_ROADMAP.md (DS), DREAMCAST.md (Dreamcast), PS1_PERFORM
 - [ ] Floor textures swim near the camera: the last speed round loosened the texture-warp cutting. Put the strict setting back for normal play (a loose one only as the speed helper's last step, far from the camera). Check with a frozen frame, moving a tile at a time.
 - [ ] City still about 20 fps on the Sims, zoomed-in and zoomed-out cameras (first person is 27). Goal 25. About 130 hb is missing from a 650 hb frame. Ideas: pre-built geometry per block on 8 MB, a cheaper tile loop (about 290 hb), a cheaper player model (about 85 hb), hide blocks behind buildings.
 - [ ] Clock card is not kept between frames (no packet room).
-- [x] Boreagotchi 3 (save v48): needs (energy, clean), moodlets, wishes, goals and streaks, 7 mini-games with skills, scripted first day, surprises, 32-line diary. See docs/GOTCHI_V48.md. Old v40/v41 saves load (test/oldsave.sh). Left: v45-47 save test on a real card, DS/DC ports of the new rules, sounds are pitched voices only, BRAINS manners bonus in train.
+- [x] Boreagotchi 3 (save v48): needs (energy, clean), moodlets, wishes, goals and streaks, 8 mini-games (WHACK is the newest) with skills, scripted first day, surprises, 32-line diary. See docs/GOTCHI_V48.md. Old v40/v41 saves load (test/oldsave.sh). Left: v45-47 save test on a real card, DS/DC ports of the new rules, sounds are pitched voices only. BRAINS manners bonus in train is done.
 - [ ] Old-save load test for the Boreagotchi save (version 45) and REAL TIME (version 44) on a real memory card.
 - [ ] Bus facing at stops, car pitch on real hills, first-person and gas-station vehicle shots.
 - [x] Boreagotchi PS1 text overlaps fixed (commit 9b4fc5c). Test hook -DAUTO_GVIEWS and test/gviews.sh step through every screen; the disc image does not rebuild when only an overlay changes, the script forces it.
